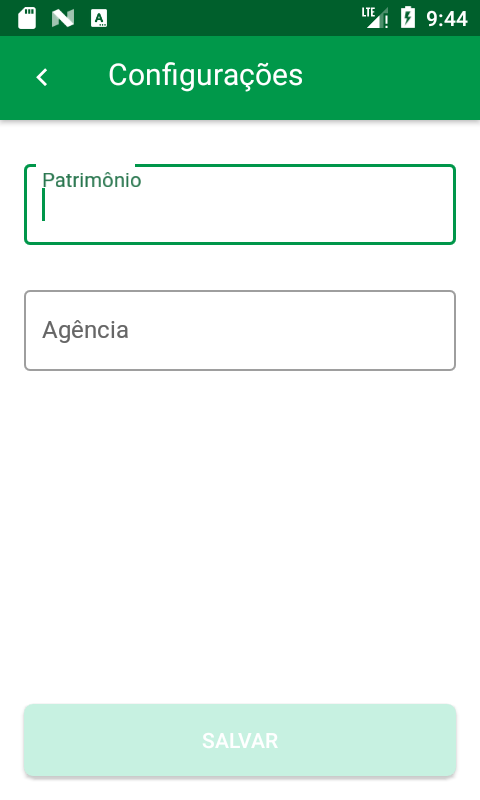
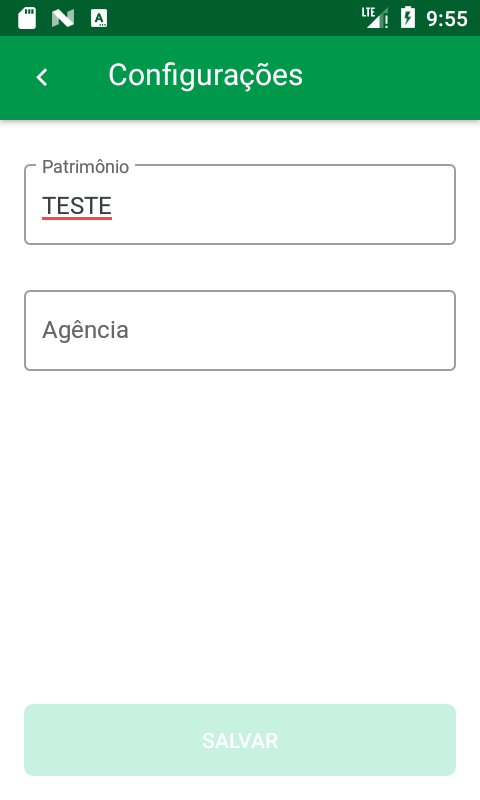
So o Teste

Changed region(s): [[0.0312, 0.1875, 0.9688, 0.3125], [0.0625, 0.9688, 0.9375, 1.0], [0.9062, 0.0, 0.9688, 0.0312]]

diff --git a/src/test/java/br/localiza/app/page/LoginPage.java b/src/test/java/br/localiza/app/page/LoginPage.java
@@ -27,8 +27,7 @@ public class LoginPage {
 
 		DriverFactory.getDriver().findElementById("com.localiza.menuapp:id/btn_continuar").click();
 
-		DriverFactory.getDriver().findElementById("com.localiza.menuapp:id/layout_input_patrimonio").click();
-
+		DriverFactory.getDriver().findElementById("com.localiza.menuapp:id/input_patrimonio").sendKeys("teste");
 
 		
 	}
